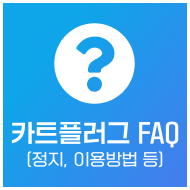
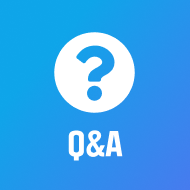
배너 사이즈 재구성

diff --git a/static/battery.html b/static/battery.html
@@ -1,0 +1,1 @@
+건전지 충전 서비스 준비중입니다.
